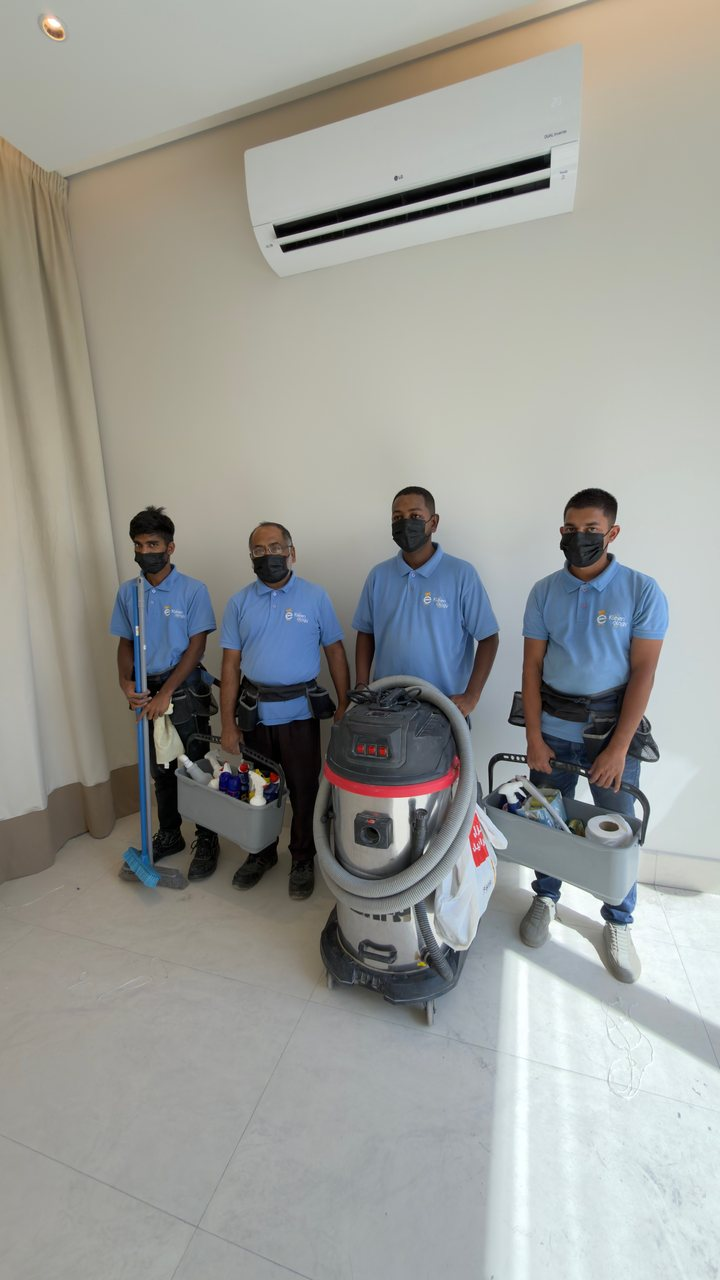
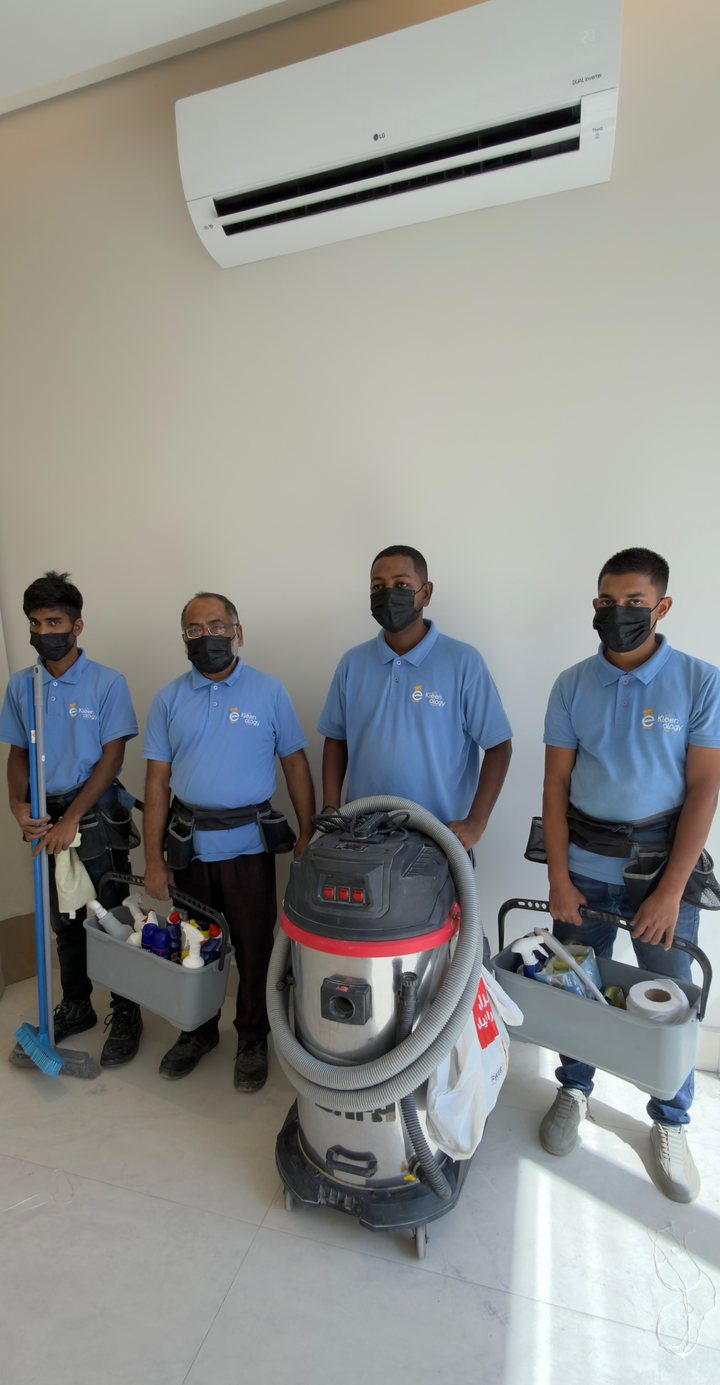
Actually render the mobile hero image on phones (#26)
hero-background-mobile.jpg was imported but never referenced: a single
background div used the desktop image at every width, with scale-110
standing in for a phone crop. The asset shipped in the bundle without
ever being displayed, and once both files became the same team photo it
was simply the same picture stored twice.

The background is now two layers, sm:hidden and hidden sm:block, so each
viewport fetches only its own file -- verified by request logging: 1440px
pulls the wide crop, 390px pulls the portrait one, neither pulls both.

The shared scrim moves into a HERO_SCRIM constant rather than being
duplicated across the two layers.

The mobile crop is retaken as a tall column over the crew (x 700..4100)
placed low in frame. Rendering the full 4500x8000 frame left them small
and buried behind the CTA buttons.

Claude-Session: https://claude.ai/code/session_01R9JM2vc8VzxHJMJvHBhj33

diff --git a/src/components/Hero.tsx b/src/components/Hero.tsx
@@ -1,6 +1,10 @@
 
 import heroBg from "@/assets/hero-background-white.jpg";
 import heroBgMobile from "@/assets/hero-background-mobile.jpg";
+
+// Darkens the photo so the white headline stays readable over it.
+const HERO_SCRIM =
+  "linear-gradient(180deg, rgba(20,30,48,0.50) 0%, rgba(20,30,48,0.38) 55%, rgba(20,30,48,0.45) 100%), linear-gradient(120deg, rgba(20,30,48,0.15) 30%, rgba(36,198,220,0.05))";
 import { Button } from "@/components/ui/button";
 import { MessageCircle, Users, Shield, Sparkles, Calendar } from "lucide-react";
 import { useCallback } from "react";
@@ -30,11 +34,19 @@ export const Hero = () => {
       id="home"
       className="relative min-h-[90vh] flex items-center justify-center overflow-hidden pt-24 pb-24 sm:pt-36 sm:pb-36"
     >
-      {/* Professional Background with Gradient Overlay */}
+      {/* Professional Background with Gradient Overlay.
+          Two layers so phones load the portrait crop instead of the wide one. */}
       <div
-        className="absolute inset-0 w-full h-full z-0 bg-cover bg-center bg-no-repeat scale-110 sm:scale-100"
+        className="absolute inset-0 w-full h-full z-0 bg-cover bg-center bg-no-repeat sm:hidden"
         style={{
-          backgroundImage: `linear-gradient(180deg, rgba(20,30,48,0.50) 0%, rgba(20,30,48,0.38) 55%, rgba(20,30,48,0.45) 100%), linear-gradient(120deg, rgba(20,30,48,0.15) 30%, rgba(36,198,220,0.05)), url(${heroBg})`,
+          backgroundImage: `${HERO_SCRIM}, url(${heroBgMobile})`,
+        }}
+        aria-hidden="true"
+      />
+      <div
+        className="absolute inset-0 w-full h-full z-0 bg-cover bg-center bg-no-repeat hidden sm:block"
+        style={{
+          backgroundImage: `${HERO_SCRIM}, url(${heroBg})`,
         }}
         aria-hidden="true"
       />
